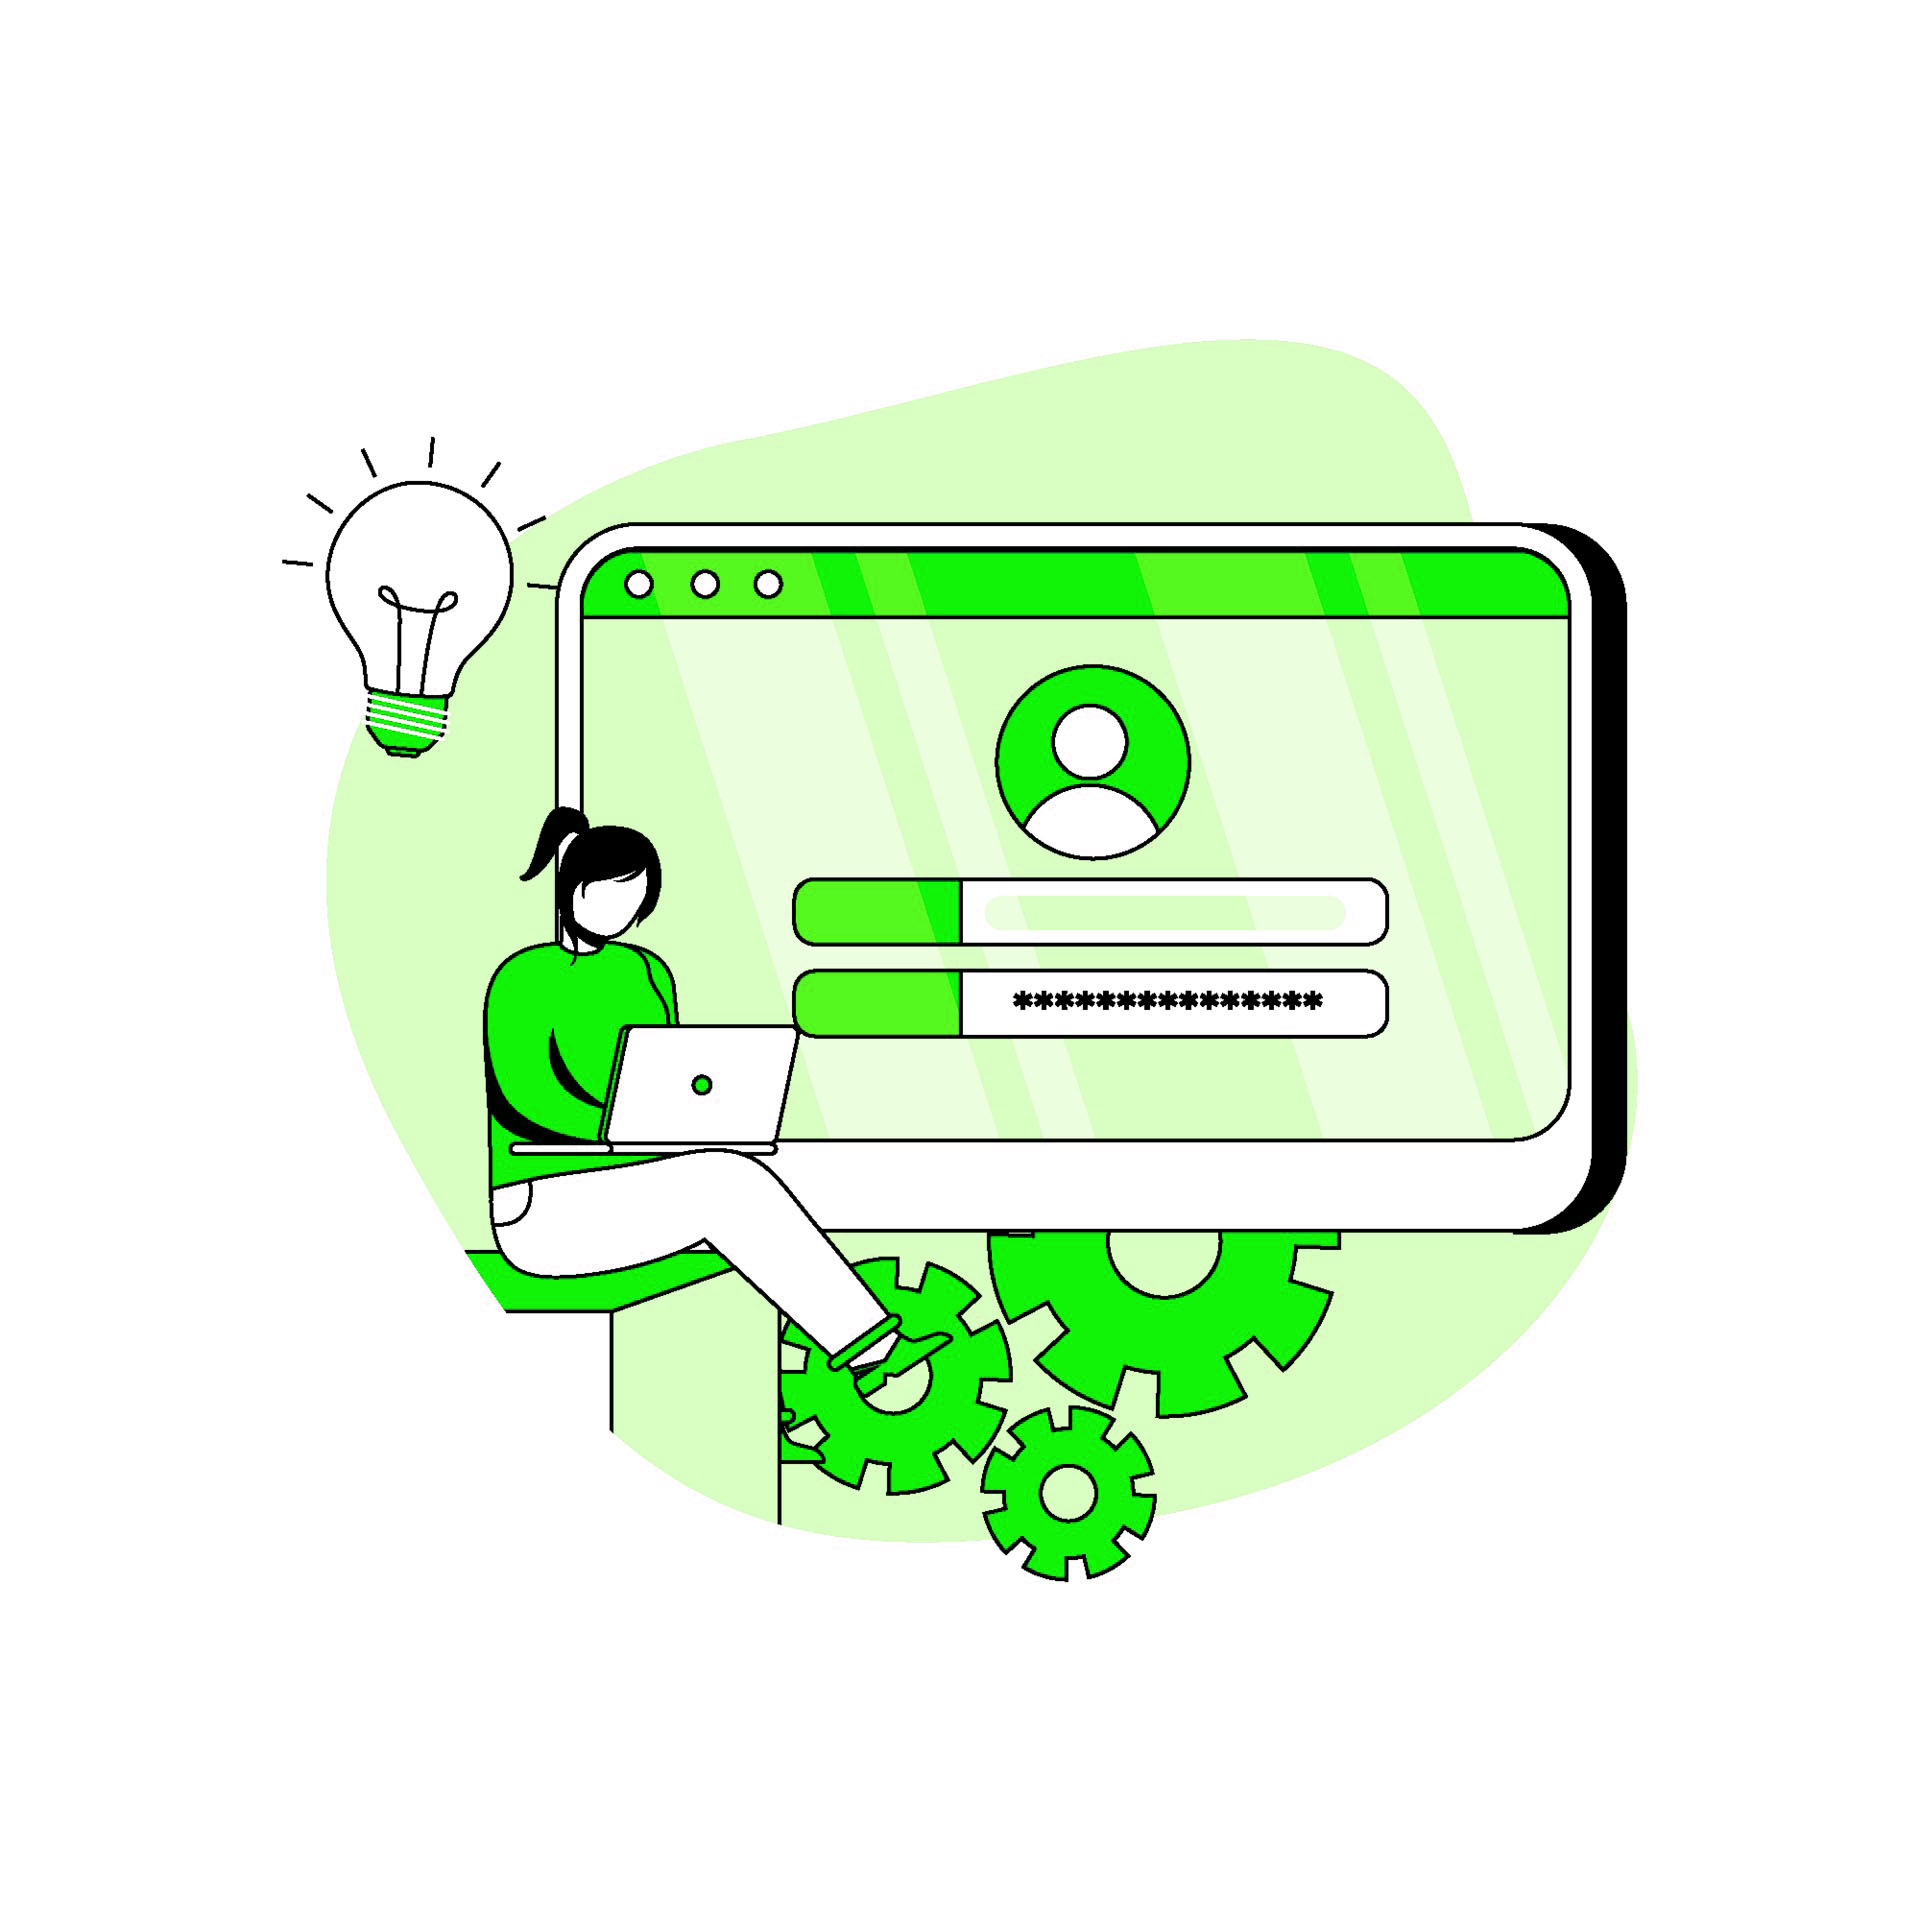
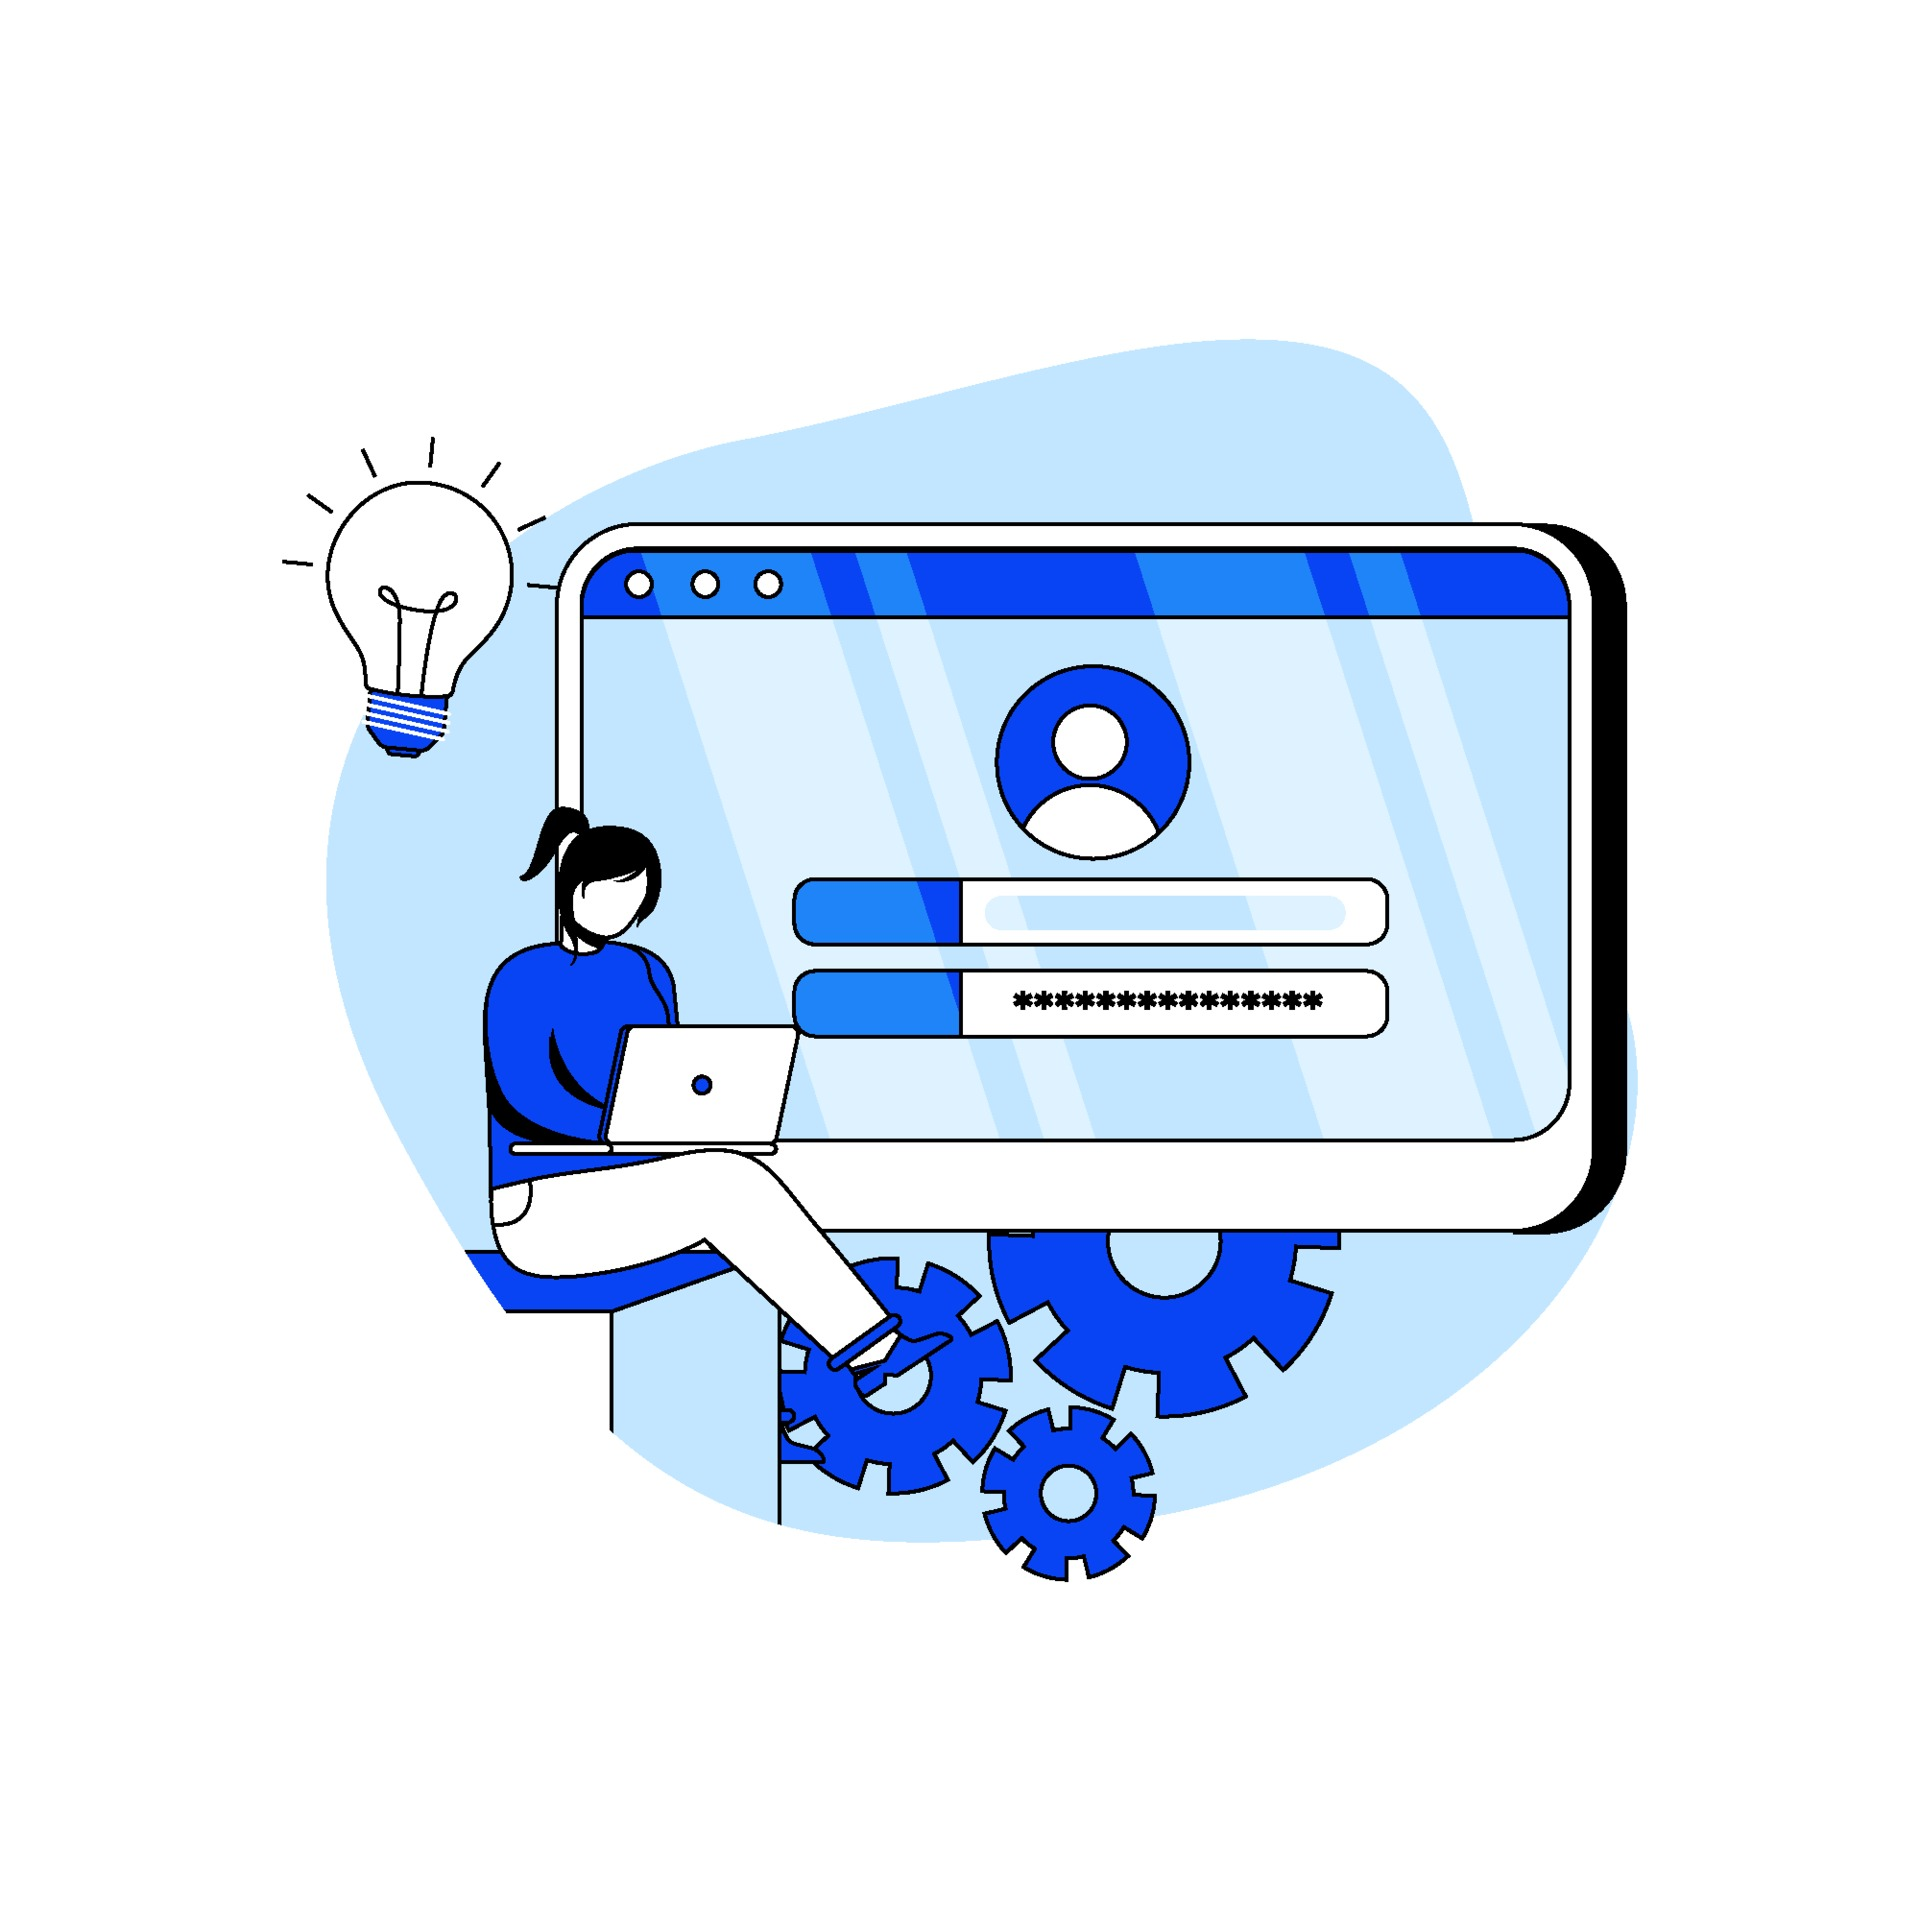
editing login and register

Changed region(s): [[0.1562, 0.1562, 0.875, 0.8438]]

diff --git a/css/register.css b/css/register.css
@@ -1,12 +1,12 @@
-body{background-color: #128e20}
+body{background-color: #E4FFFF}
 .container{height: 100vh}
 .card{width: 100%;padding: 30px}
 .form{padding: 20px}
 .form-control{height: 50px;background-color: #eee}
 .form-control:focus{color: #495057;background-color: #fff;border-color: #2192FF;outline: 0;box-shadow: none;background-color: #eee}
 .inputbox{margin-bottom: 15px}
-.register{width: 200px;height: 51px;background-color: #38E54D;border-color: #38E54D}
-.register:hover{width: 200px;height: 51px;background-color: #FDFF00;border-color: #FDFF00}
-.login{color: #38E54D;text-decoration: none}
+.register{width: 200px;height: 51px;background-color: #FFFF00;border-color: #FFFF00;color: black;}
+.register:hover{width: 200px;height: 51px;background-color: #00B4D8;border-color: #00B4D8}
+.login{color: #00B4D8;text-decoration: none}
 .login:hover{color: #FDFF00;text-decoration: none}
 .form-check-input:checked{background-color: #FDFF00;border-color: #FDFF00}

diff --git a/login.html b/login.html
@@ -5,13 +5,14 @@
         <link href="https://cdn.jsdelivr.net/npm/bootstrap@5.0.0-alpha1/dist/js/bootstrap.bundle.min.js">
         <link href="https://cdnjs.cloudflare.com/ajax/libs/jquery/3.2.1/jquery.min.js">
         <link rel="stylesheet" href="css/login.css">
+        <title>ورود</title>
     </head>
     <body>
         <div class="container d-flex justify-content-center align-items-center">
             <div class="card">
                 <div class="row">
                     <div class="col-md-6">
-                        <div class="text-center mt-5"> <img src="img/loginimg.jpg" width="400"> </div>
+                        <div class="text-center mt-5"> <img src="img/loginimg.png" width="400"> </div>
                     </div>
                     <div class="col-md-6">
                         <div class="form" dir="rtl">

diff --git a/register.html b/register.html
@@ -5,6 +5,7 @@
         <link href="https://cdn.jsdelivr.net/npm/bootstrap@5.0.0-alpha1/dist/js/bootstrap.bundle.min.js">
         <link href="https://cdnjs.cloudflare.com/ajax/libs/jquery/3.2.1/jquery.min.js">
         <link rel="stylesheet" href="css/register.css">
+        <title>ثبت نام</title>
     </head>
     <body>
         <div class="container d-flex justify-content-center align-items-center">
